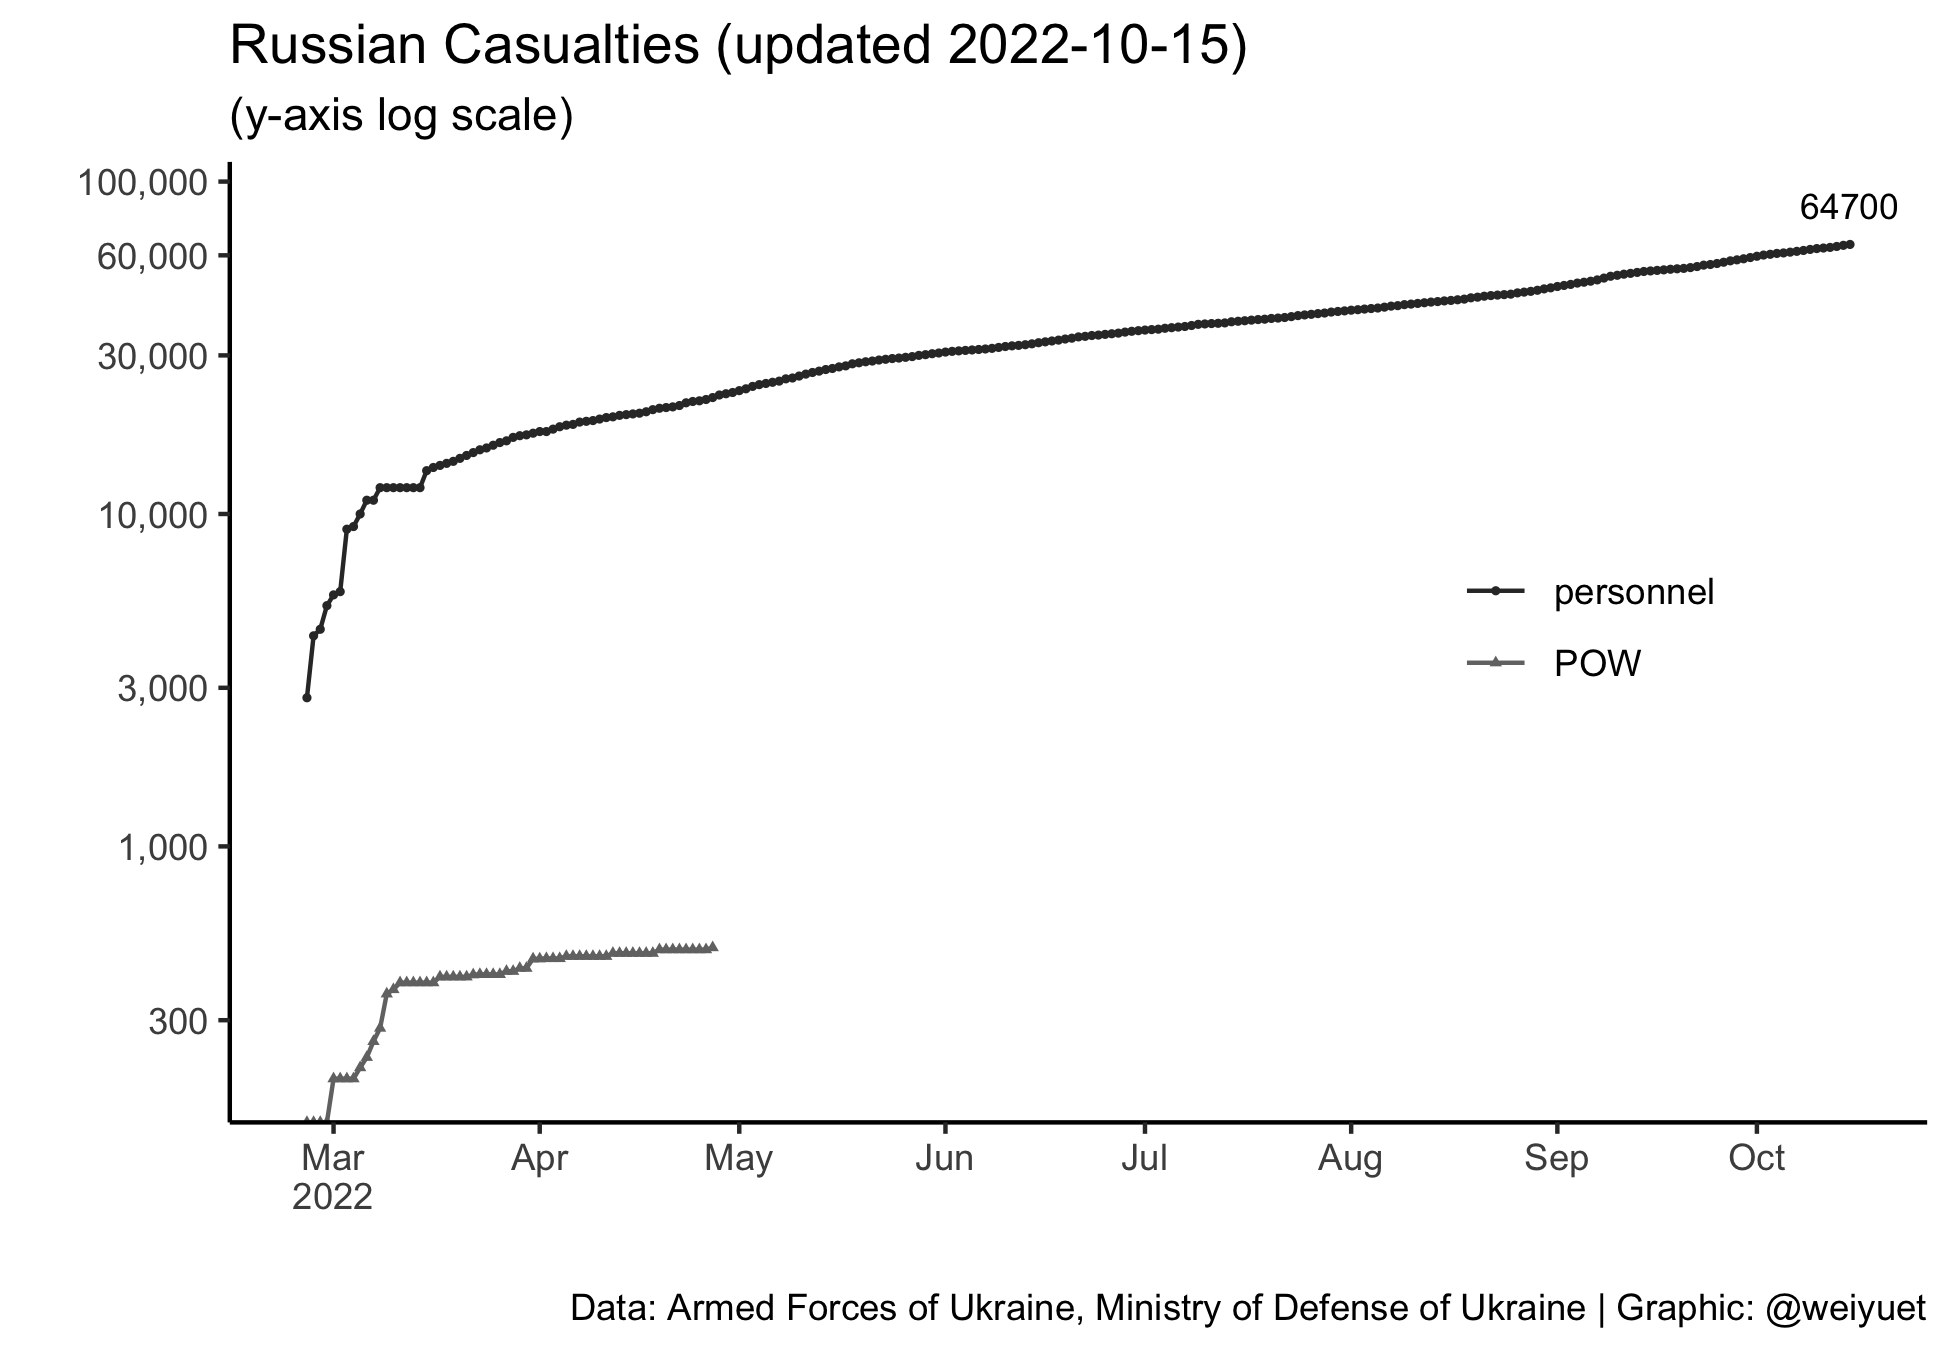
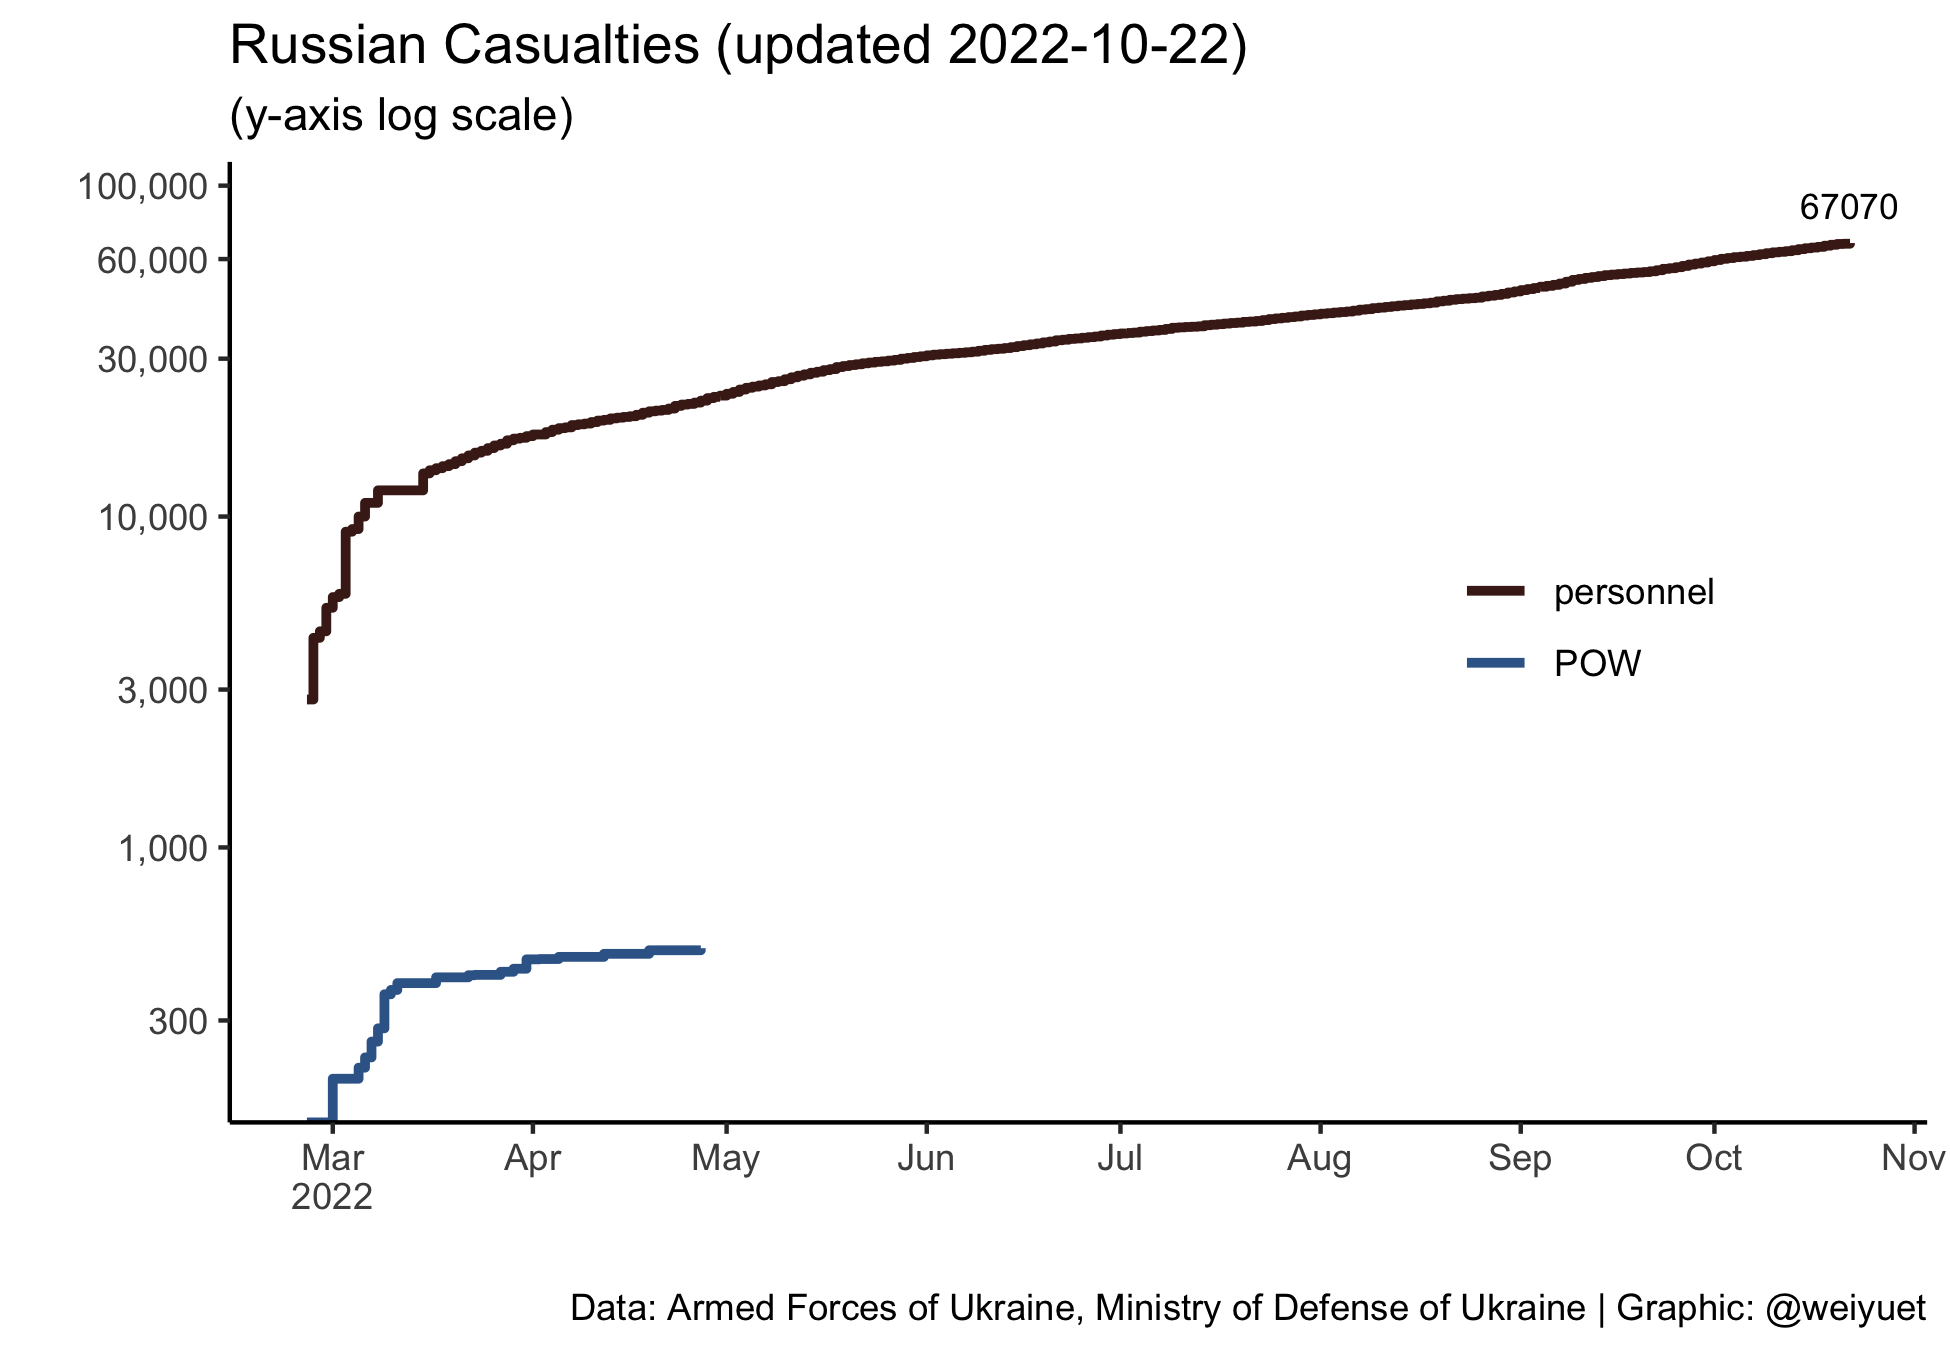
Updated 22 October

diff --git a/README.md b/README.md
@@ -6,7 +6,7 @@ Wong Wei Yuet 2022-05-26
 
   - War casualty data updated daily from [`Petro Ivanyuk's Kaggle`](https://www.kaggle.com/datasets/piterfm/2022-ukraine-russian-war). All data is official and put together by `Petro`
 
-Updated: 2022-10-17
+Updated: 2022-10-22
 
 ## Summary of Conflict
 
